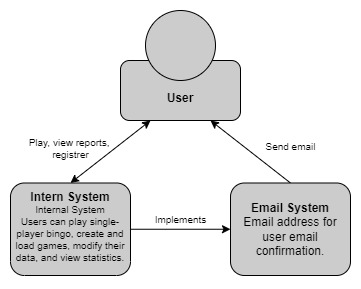
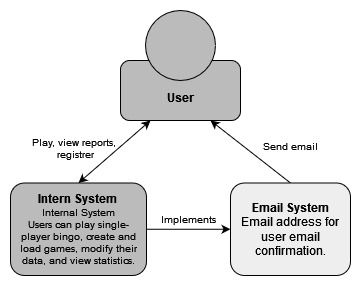
Add context diagram

diff --git a/README.md b/README.md
@@ -121,7 +121,7 @@ The purpose of the following document is to catalog and present the various inte
 #### General System Structure
 
 <section align=center>
-    <img src="./" alt="Context diagram">
+    <img src="./docs/assets/diagrams/Context.jpg" alt="Context diagram">
 </section>
 
 #### General Solition Structure
